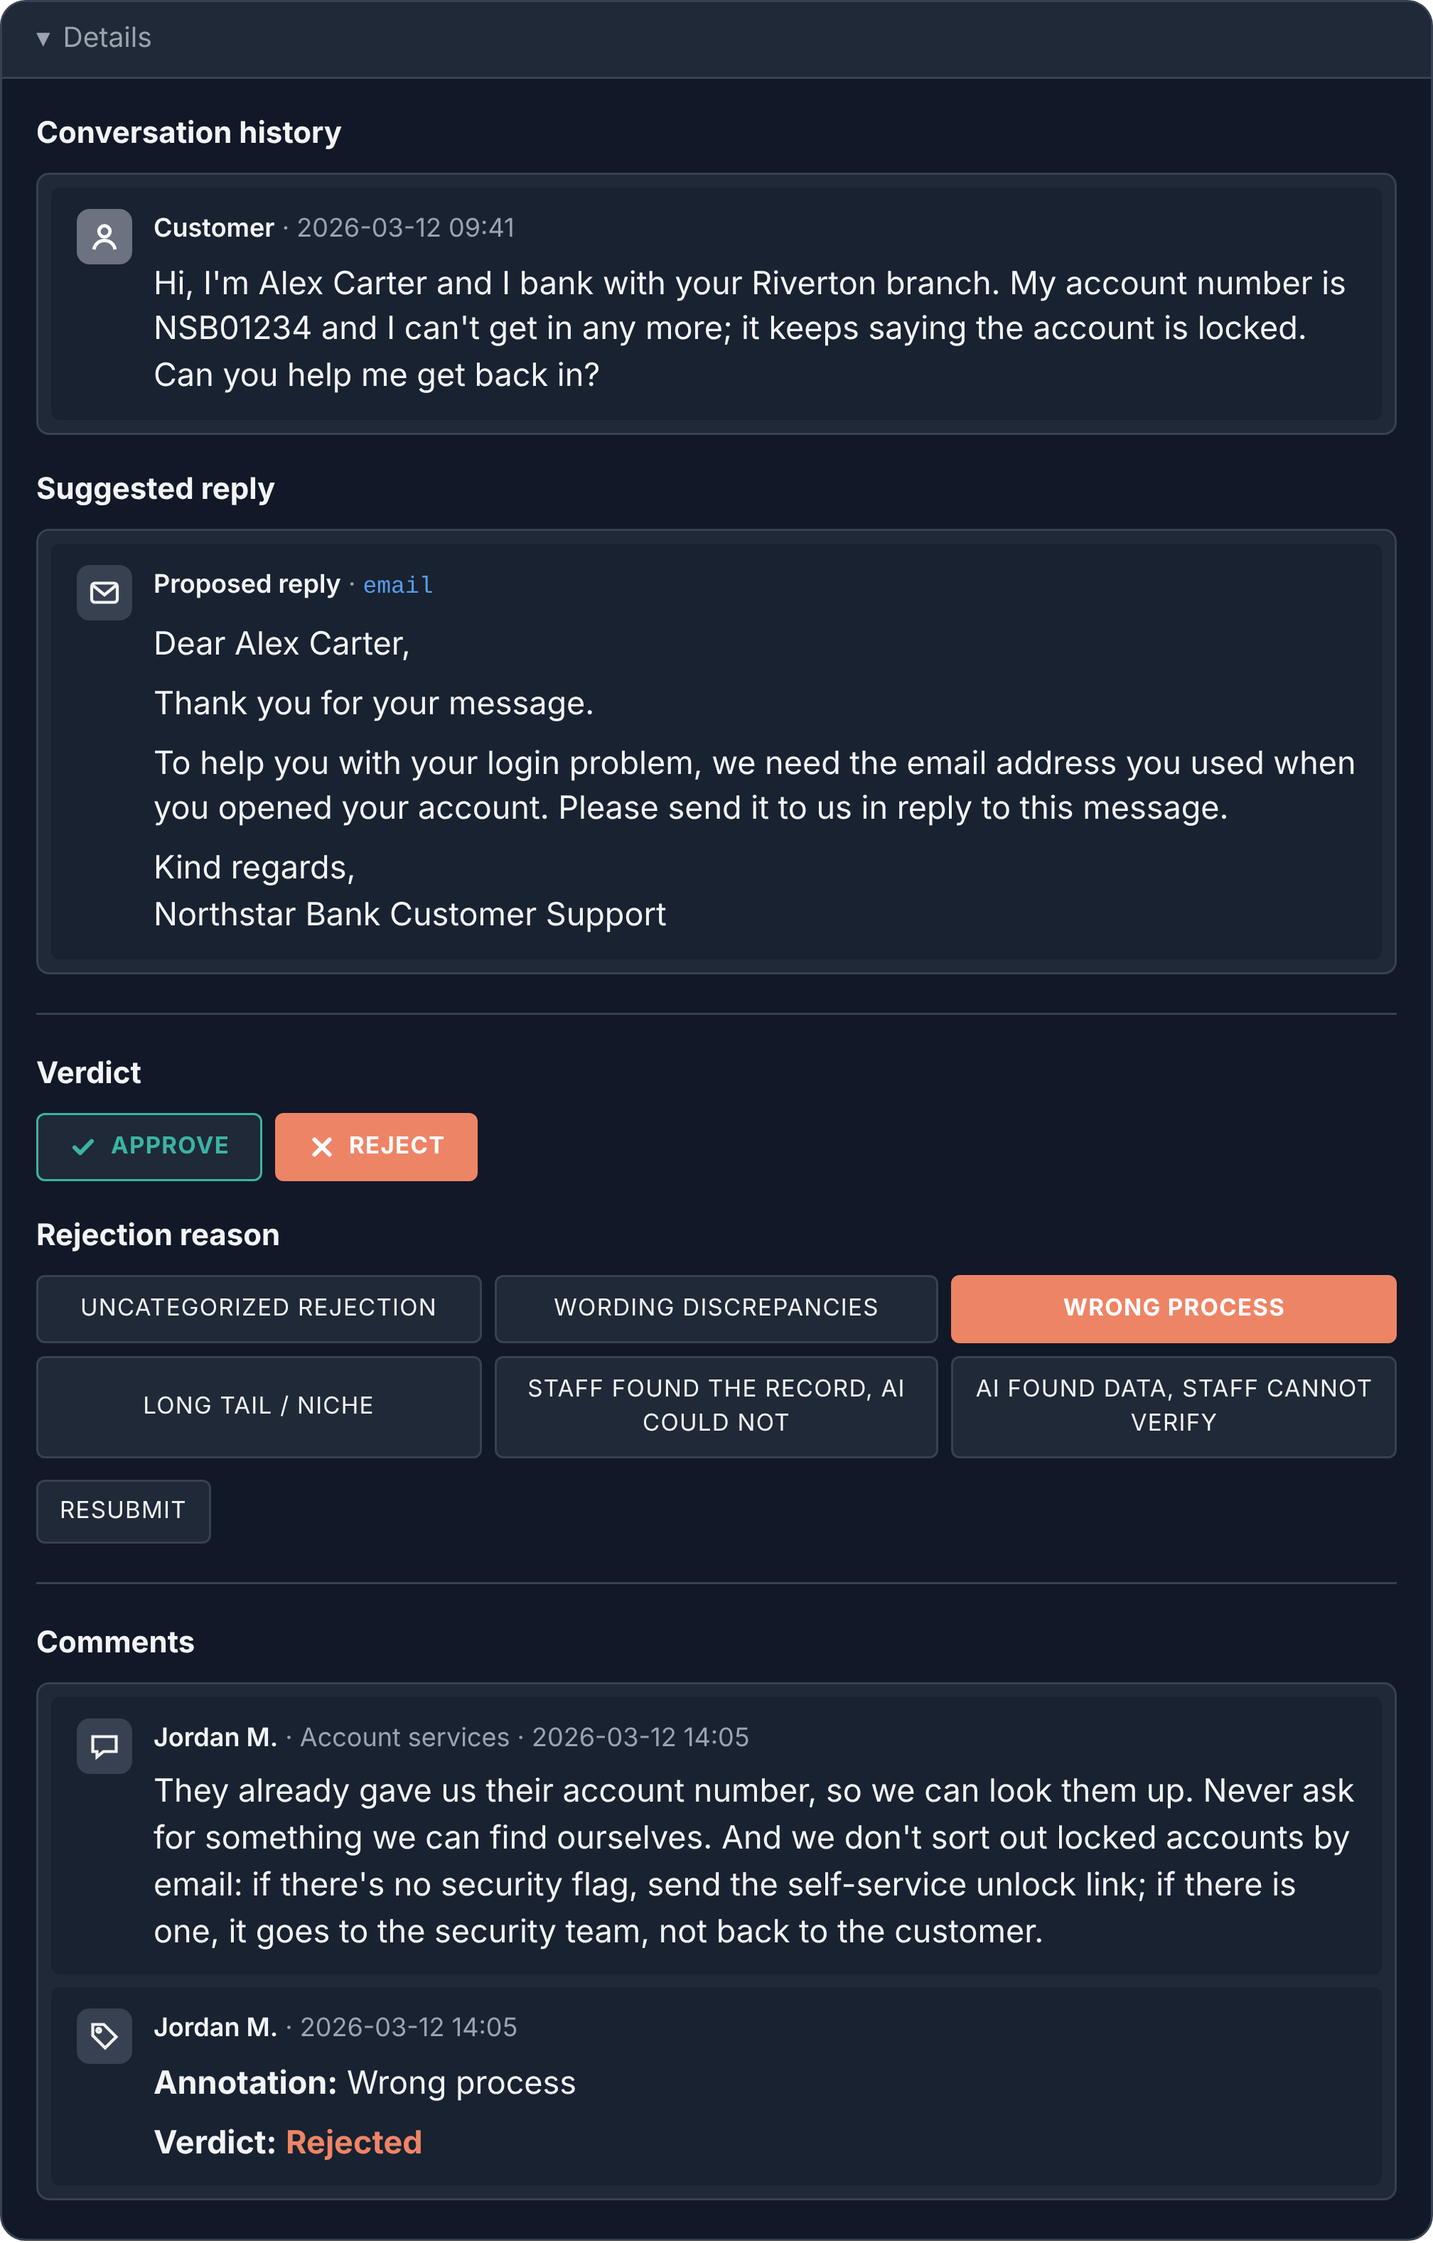
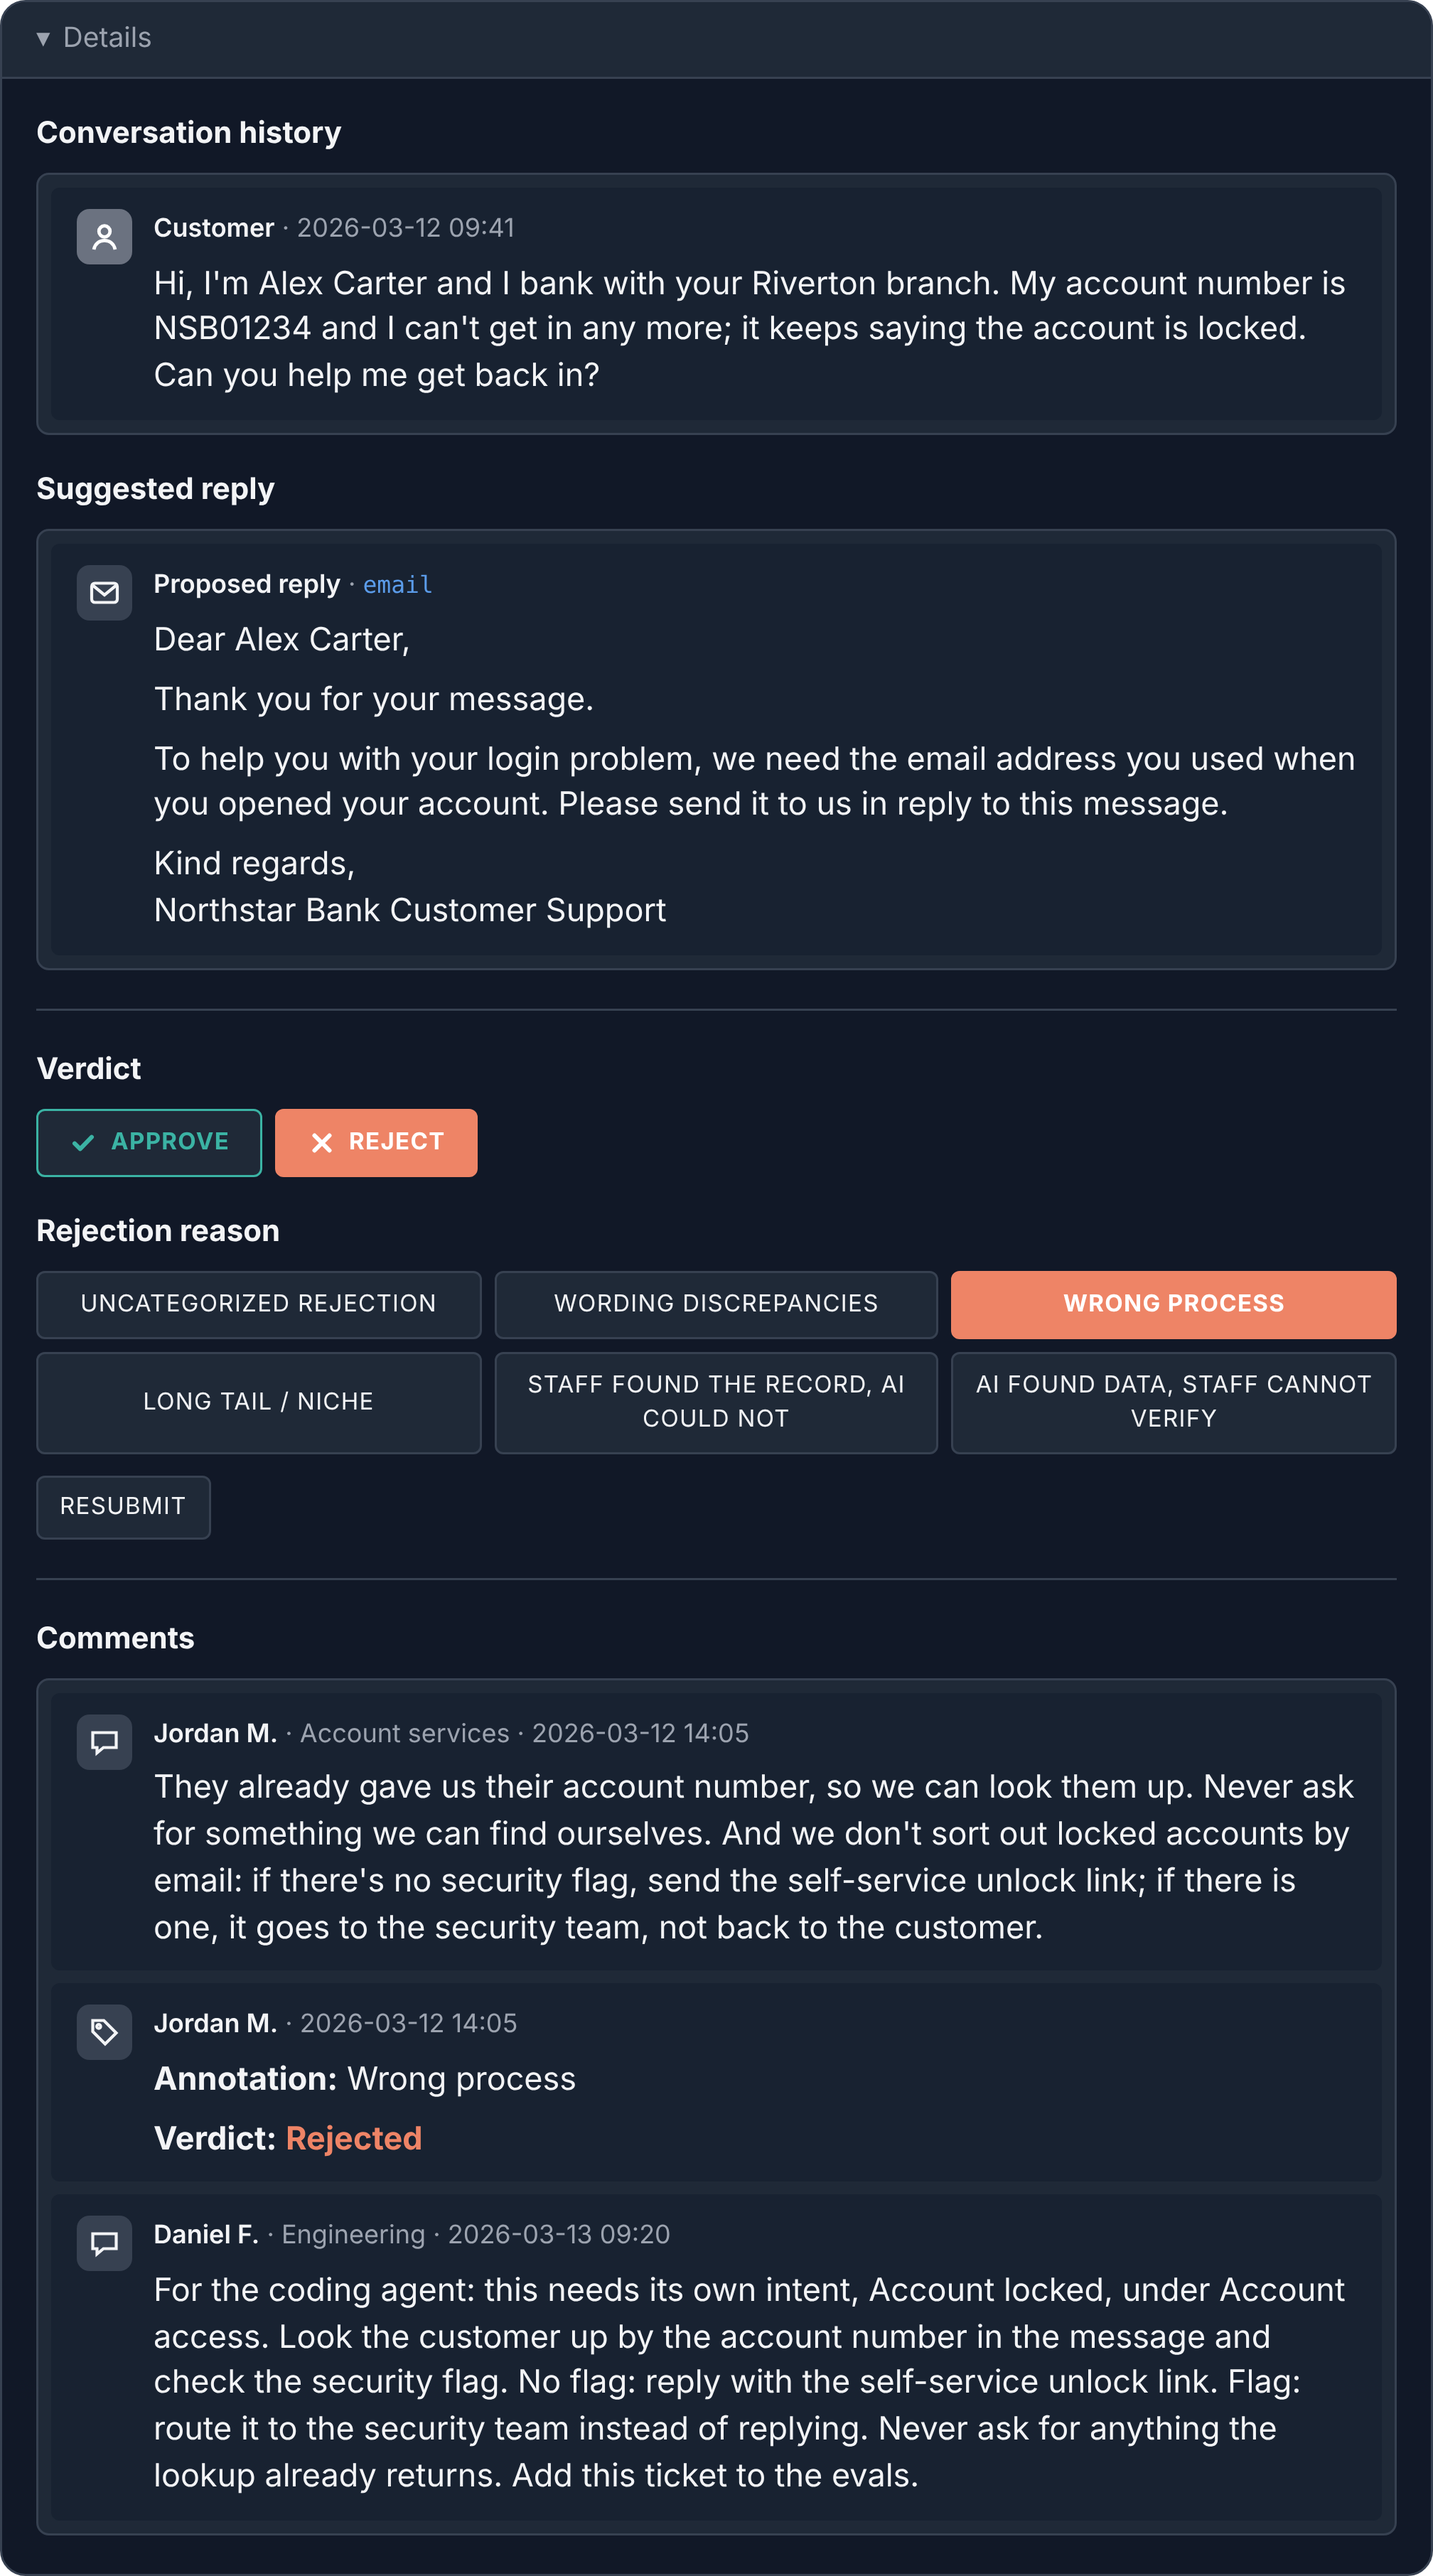
Show my comment for the coding agent in the review-screen mockup
Step 2 was another comment on the ticket, in the same style as the
reviewer's: a high-level description of the fix. The mockup now shows it
under Jordan's comment, and step 2, the caption and the alt text say so.

Claude-Session: https://claude.ai/code/session_01QWCehSvL9kNTSDMZrThzYG

diff --git a/scripts/mockups/sme-review-screen.html b/scripts/mockups/sme-review-screen.html
@@ -248,6 +248,15 @@
             <p><b>Verdict:</b> <span class="rejected">Rejected</span></p>
           </div>
         </div>
+        <div class="msg">
+          <div class="avatar">
+            <svg viewBox="0 0 16 16" fill="none" stroke="currentColor" stroke-width="1.4"><path d="M2.5 3.5h11v7h-6l-3 2.5v-2.5h-2z"/></svg>
+          </div>
+          <div>
+            <div class="meta"><b>Daniel F.</b> · Engineering · 2026-03-13 09:20</div>
+            <p>For the coding agent: this needs its own intent, Account locked, under Account access. Look the customer up by the account number in the message and check the security flag. No flag: reply with the self-service unlock link. Flag: route it to the security team instead of replying. Never ask for anything the lookup already returns. Add this ticket to the evals.</p>
+          </div>
+        </div>
       </div>
 
     </div>
